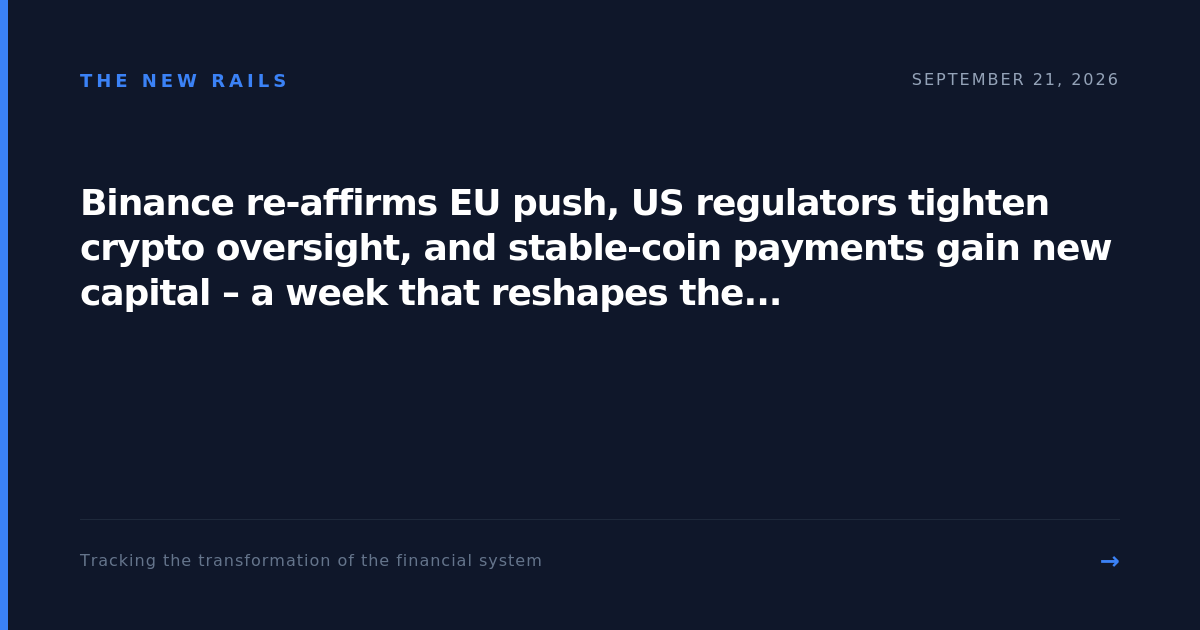
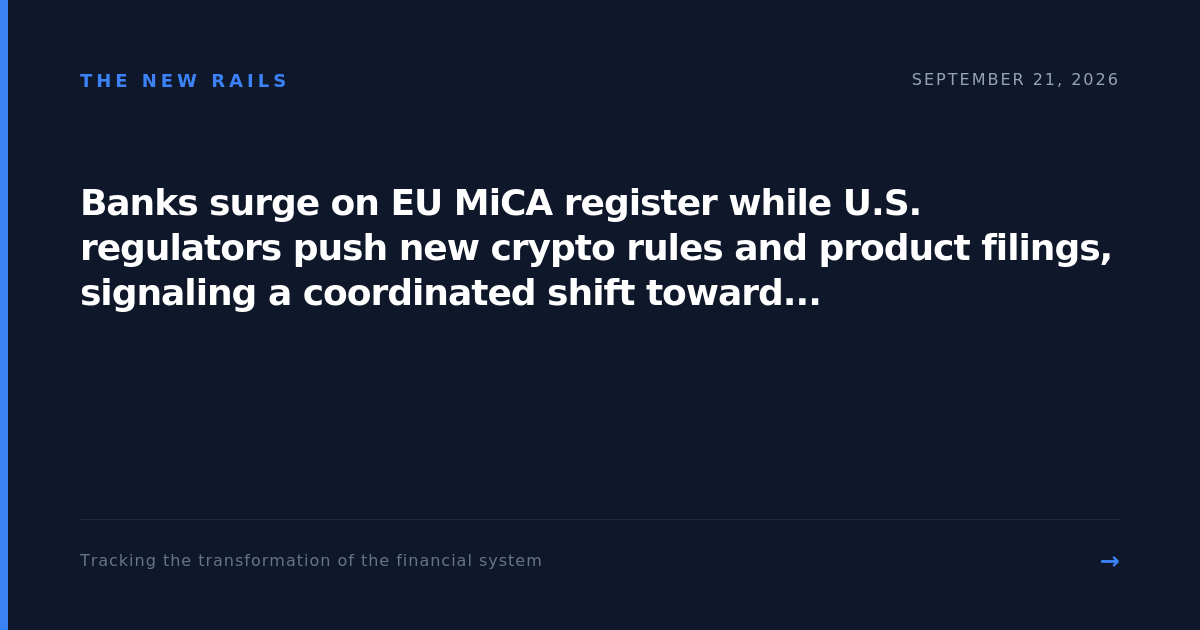
Daily financial system draft + header 2026-09-21

Changed region(s): [[0.0617, 0.3016, 0.925, 0.5127]]

diff --git a/draft_20260921.md b/draft_20260921.md
@@ -1,59 +1,40 @@
 **Headline**  
-Binance re‑affirms EU push, US regulators tighten crypto oversight, and stable‑coin payments gain new capital – a week that reshapes the competitive map for banks, exchanges and treasury teams.
+*Banks surge on EU MiCA register while U.S. regulators push new crypto rules and product filings, signaling a coordinated shift toward mainstream financial‑service participation.*
 
 ---
 
 ### What Happened  
 
-**Binance brushes off speculation on ECB involvement** – The world’s largest crypto exchange told reporters it is “committed to securing authorization in Europe” after a report suggested the European Central Bank had intervened in Binance’s bid to obtain a MiCA licence in Greece. Binance declined to comment on the alleged ECB role, emphasizing instead that it is pursuing the formal registration process required under the EU’s Markets in Crypto‑Assets (MiCA) framework. (CoinTelegraph)
+In the past 24 hours a cluster of regulatory and market moves has sharpened the focus on crypto as a mainstream‑banking product.  According to **CoinTelegraph**, banks now make up almost one‑quarter of the entities listed on the European Securities and Markets Authority (ESMA) MiCA register – a share that has roughly doubled since late June.  The increase reflects a deliberate effort by European banks to secure a foothold in the EU’s first comprehensive crypto‑service framework, positioning themselves alongside traditional crypto‑service providers.
 
-**Banks double their share on the EU MiCA provider register** – Data from the European Securities and Markets Authority (ESMA) show that banks now account for roughly 23 % of entities listed on the MiCA register, up from about 12 % in late June. The surge reflects a wave of traditional financial institutions filing for crypto‑service licences, ranging from custodial solutions to token‑settlement platforms. (CoinTelegraph)
+Across the Atlantic, the U.S. Commodity Futures Trading Commission (CFTC) submitted a fresh crypto‑market regulatory plan to the White House, just days after the Senate failed to move the CLARITY Act.  The filing, also reported by **CoinTelegraph**, outlines how the CFTC intends to exercise its existing authority over crypto derivatives, spot markets and custodial services, without waiting for new legislation.  At the same time, the CFTC and the SEC have signaled that they will continue to pursue enforcement actions, a development that helped lift crypto‑linked equities such as Coinbase and Strategy Shares after a brief sell‑off triggered by the CLARITY vote.
 
-**Stable‑coin payments firm dtcpay raises $25 million** – Japan’s SBI Group led a Series A round that gave dtcpay a $25 million war chest. The company plans to broaden its merchant network and launch new payment products that settle in stablecoins, positioning itself as a bridge between Japanese retailers and the global digital‑currency ecosystem. (CoinTelegraph)
+In the product arena, Coinbase announced a filing to launch single‑stock perpetual futures for U.S. equities, a contract type that trades 24‑hours a day and settles in cash.  The proposal is awaiting regulatory clearance and would extend the firm’s derivatives platform beyond crypto‑only contracts.  Meanwhile, Bastion Platforms received conditional approval from the Office of the Comptroller of the Currency (OCC) for a national trust charter that would allow it to offer stable‑coin custody, white‑label issuance and payment infrastructure under a single federally regulated umbrella.  The approval marks the first time a U.S. trust bank has been granted such a broad crypto‑service mandate.
 
-**Hyperliquid’s HYPE token spikes above $90** – After Hyperliquid introduced a manual borrowing feature that lets users take stable‑coin loans against HYPE or Bitcoin collateral, the HYPE token hit an all‑time high of $90.92. The move is intended to increase on‑chain liquidity and attract leveraged traders to the platform. (CoinTelegraph)
-
-**Bitcoin climbs to $81 k amid US bond‑yield bounce** – Bitcoin rallied to $81,000 as U.S. 30‑year Treasury yields rose again, driven by concerns over global oil supply disruptions. The price move underscores the cryptocurrency’s continued sensitivity to macro‑financial variables. (CoinTelegraph)
-
-**CFTC submits a crypto‑market regulatory plan to the White House** – The U.S. Commodity Futures Trading Commission (CFTC) delivered a comprehensive regulatory proposal to the White House for review, just days after the Senate failed to pass the CLARITY Act. The plan outlines how the agency will use its existing authority to oversee derivatives, spot markets and custodial services. (CoinTelegraph)
-
-**Crypto‑linked equities rebound** – Stocks of Coinbase, Strategy Shares and other crypto‑related firms recovered after a brief sell‑off triggered by the stalled CLARITY legislation. The rally came as the CFTC and SEC signaled they would continue enforcement actions under existing rules rather than wait for new legislation. (CoinTelegraph)
-
-**Coinbase files for single‑stock perpetual futures in the U.S.** – Coinbase submitted an application to launch 24‑hour/5‑day perpetual futures contracts on individual U.S. equities. The product would sit outside traditional exchange‑traded futures and would require approval from the CFTC and the SEC before it can be offered to retail and institutional traders. (CoinTelegraph)
+Other headlines from the day add color to the shifting landscape.  Bitcoin rallied to $81 k as U.S. 30‑year Treasury yields rose amid renewed oil‑price volatility.  VanEck publicly criticized Metaplanet’s executive equity structure, arguing that the company’s compensation model remains out of line with peers despite a 41 % reduction in its potential share pool.  Finally, Grayscale filed to split its Zcash ETF shares three‑for‑one, a move designed to improve liquidity and broaden the fund’s investor base.
 
 ---
 
 ### The Bigger Picture  
 
-**Rebuilding the rails: regulation, liquidity and distribution**  
-All of the headlines point to three intersecting “rails” that are being reconstructed: (1) the regulatory framework governing crypto activities, (2) the sources of on‑chain liquidity, and (3) the channels that move fiat and digital value between merchants, investors and custodians.  
+These events are strands of a single, larger transformation: the **re‑building of the financial‑services “rail” that once excluded digital assets**.  In Europe, the MiCA framework creates a unified set of rules that give banks a clear path to offer custodial, payment and token‑issuance services.  By joining the register in force, banks are not merely checking a compliance box; they are positioning themselves to capture fee income that previously flowed to pure‑play crypto firms.  The “rail” being rebuilt is the **institutional distribution channel**—the same network that moves billions in fiat every day, now being retro‑fitted for tokenised assets.
 
-First, the EU’s MiCA regime is moving from a paper‑only concept to a functional licensing system. Binance’s public denial of ECB meddling and the surge of banks on the MiCA register show that both crypto‑native firms and traditional players are scrambling to be first‑movers. The “rail” of regulatory legitimacy is being laid brick by brick, and whoever secures a licence early will gain a de‑facto market‑access passport across the 27‑member bloc.
+In the United States, the CFTC’s proactive filing signals a **parallel reconstruction of the enforcement and market‑structure rail**.  Rather than waiting for Congress, the agency is using its existing statutory authority to bring crypto under the same supervisory umbrella as commodities and derivatives.  The simultaneous move by the SEC to keep enforcement momentum alive, and Coinbase’s push for single‑stock perpetual futures, shows that the **product‑innovation rail**—the ability to launch new contract types quickly—is also being re‑engineered to include both crypto and traditional securities.  This convergence creates a hybrid ecosystem where banks, broker‑dealers and crypto platforms can operate side‑by‑side under a common regulatory regime.
 
-Second, liquidity is being deepened through product innovation. Hyperliquid’s manual borrowing feature and Coinbase’s push for single‑stock perpetual futures illustrate a shift from pure spot trading to leveraged, on‑chain credit products. By allowing users to borrow stablecoins against crypto collateral, platforms are creating a new source of capital that does not rely on traditional bank funding. This expands the pool of traders who can participate, but it also introduces credit‑risk considerations that treasury teams must now monitor.
+**Winners** in this emerging order are the large, diversified financial institutions that can leverage existing compliance infrastructure, balance‑sheet strength and client relationships to roll out crypto services at scale.  European banks gaining a MiCA foothold and U.S. banks that partner with OCC‑chartered trust entities like Bastion stand to earn stable‑coin custody fees, earn‑out from token‑issuance, and cross‑sell to corporate treasury clients.  Crypto‑focused firms that adapt—such as Coinbase, which is expanding into single‑stock futures—also benefit from a clearer rulebook that reduces uncertainty for product launches.
 
-Third, distribution is widening beyond the crypto‑exchange ecosystem. dtcpay’s $25 million raise, backed by SBI, signals a strategic push to embed stable‑coin settlement into everyday merchant payments, especially in markets like Japan where cash still dominates. If successful, the stable‑coin rail could become a low‑cost, near‑instant alternative to domestic card‑network fees, giving corporates a new hedging tool against currency volatility.
+**Losers** are the fragmented, under‑capitalised crypto startups that lack a regulated banking partner or a clear pathway to scale.  Metaplanet’s executive‑compensation controversy highlights the pressure on smaller players to align governance with the standards now expected of “institutional‑grade” crypto firms.  Moreover, firms that continue to rely on opaque, unregistered custodians may find themselves edged out as banks and OCC‑chartered trusts become the default custodial providers for institutional investors.
 
-**Winners, losers and the old‑new system balance**  
-
-*Winners* – Traditional banks that secure MiCA licences are positioning themselves as custodians and service providers for a growing pool of institutional crypto demand. Their early entry gives them the credibility to partner with fintechs, offer white‑label solutions, and capture fee income that previously went to pure‑play exchanges. Likewise, exchanges that expand into leveraged on‑chain credit (e.g., Hyperliquid, Coinbase) stand to capture higher‑margin trading revenue and attract sophisticated retail traders looking for perpetual exposure without a broker‑dealer relationship.
-
-*Losers* – Legacy payment processors and card networks could see incremental erosion of merchant volume if stable‑coin settlement gains traction, especially in regions where regulatory clarity makes crypto payments low‑risk. Moreover, crypto‑only firms that lack a regulated foothold in the EU may find themselves excluded from the continent’s $1 trillion‑plus digital‑asset market, limiting growth to less‑regulated jurisdictions.
-
-*Systemic shift* – The old system—centralized, bank‑driven payments and regulated securities exchanges—remains dominant, but the emerging rails are creating a hybrid architecture. Banks are becoming “crypto‑service providers,” exchanges are morphing into “credit platforms,” and fintechs like dtcpay act as the distribution layer that connects merchants directly to stable‑coin liquidity. The result is a more fragmented but potentially more efficient ecosystem, where the competitive advantage hinges on regulatory compliance, credit‑risk management, and the ability to integrate fiat‑stable‑coin conversion at scale.
+The shift also redefines the **old system versus the new one**.  The legacy model treated digital assets as a niche, high‑risk commodity handled by a handful of specialized exchanges.  The new model treats them as another asset class that can be held, traded and tokenised within the same custodial, settlement and compliance infrastructure that underpins equities, bonds and derivatives.  The result is a **convergence of risk‑management standards**, a reduction in “regulatory arbitrage” opportunities, and a broader, more liquid market for tokenised products.
 
 ---
 
 ### What to Watch  
 
-- **EU MiCA licensing rounds (Q4 2026)** – Track the next wave of approvals from national authorities, especially in Germany, France and the Netherlands. Early licences will likely translate into market‑share gains for banks and exchanges.  
+- **EU MiCA implementation milestones** – ESMA’s quarterly reporting on the number of banks versus crypto‑only providers will show whether the 23 % share holds, rises, or plateaus.  Expect a detailed breakdown by June 2027.  
+- **CFTC‑White House review timeline** – The administration’s response to the CFTC’s plan is expected within 60 days.  A favorable review could trigger a wave of new CFTC‑registered crypto derivatives products.  
+- **Coinbase single‑stock perpetual futures approval** – The SEC’s decision on the filing is slated for a public comment period ending early November.  Approval would set a precedent for other crypto exchanges to seek similar contracts.  
+- **OCC trust charter roll‑out** – Bastion’s conditional charter will require a final compliance audit by the OCC before a full license is granted, likely by Q1 2027.  Follow how many additional trust charters are filed in the next six months.  
+- **Liquidity and pricing of Zcash ETF post‑split** – The three‑for‑one forward split will take effect on Sept 28.  Track the ETF’s average daily volume and bid‑ask spread over the next month to gauge investor appetite for privacy‑focused crypto funds.  
 
-- **CFTC regulatory plan implementation (early 2027)** – Watch for the White House’s response and any subsequent rule‑making. The agency’s approach to on‑chain credit and perpetual futures will shape U.S. product roll‑outs and could trigger a wave of compliance filings.  
-
-- **dtcpay merchant onboarding metrics (Q4 2026)** – SBI will likely release quarterly updates on the number of Japanese merchants adopting stable‑coin payments. A rapid uptake would pressure domestic card networks and could prompt other Asian fintechs to follow suit.  
-
-- **Hyperliquid borrowing utilization rates (monthly)** – The platform’s internal data on loan‑to‑value ratios and default rates will be a leading indicator of how sustainable on‑chain credit is becoming for leveraged traders.  
-
-- **Coinbase’s perpetual futures approval timeline (CFTC/SEC filing status)** – The regulator’s decision on the single‑stock perpetual futures product will set a precedent for similar crypto‑derived derivatives in the U.S. market.  
-
-These developments will collectively determine whether the emerging crypto rails will reinforce existing financial institutions or carve out a parallel infrastructure that reshapes how banks, treasuries and investors move value. Keep
+These developments collectively map the trajectory of a financial ecosystem that is moving from a fragmented, crypto‑centric fringe to an integrated, institution‑driven mainstream.  Keeping an eye on regulatory approvals, market‑structure changes, and the performance of newly launched products will be essential for any treasury, strategy or investment team that wants to anticipate where the next sources of fee income and risk exposure will arise.
